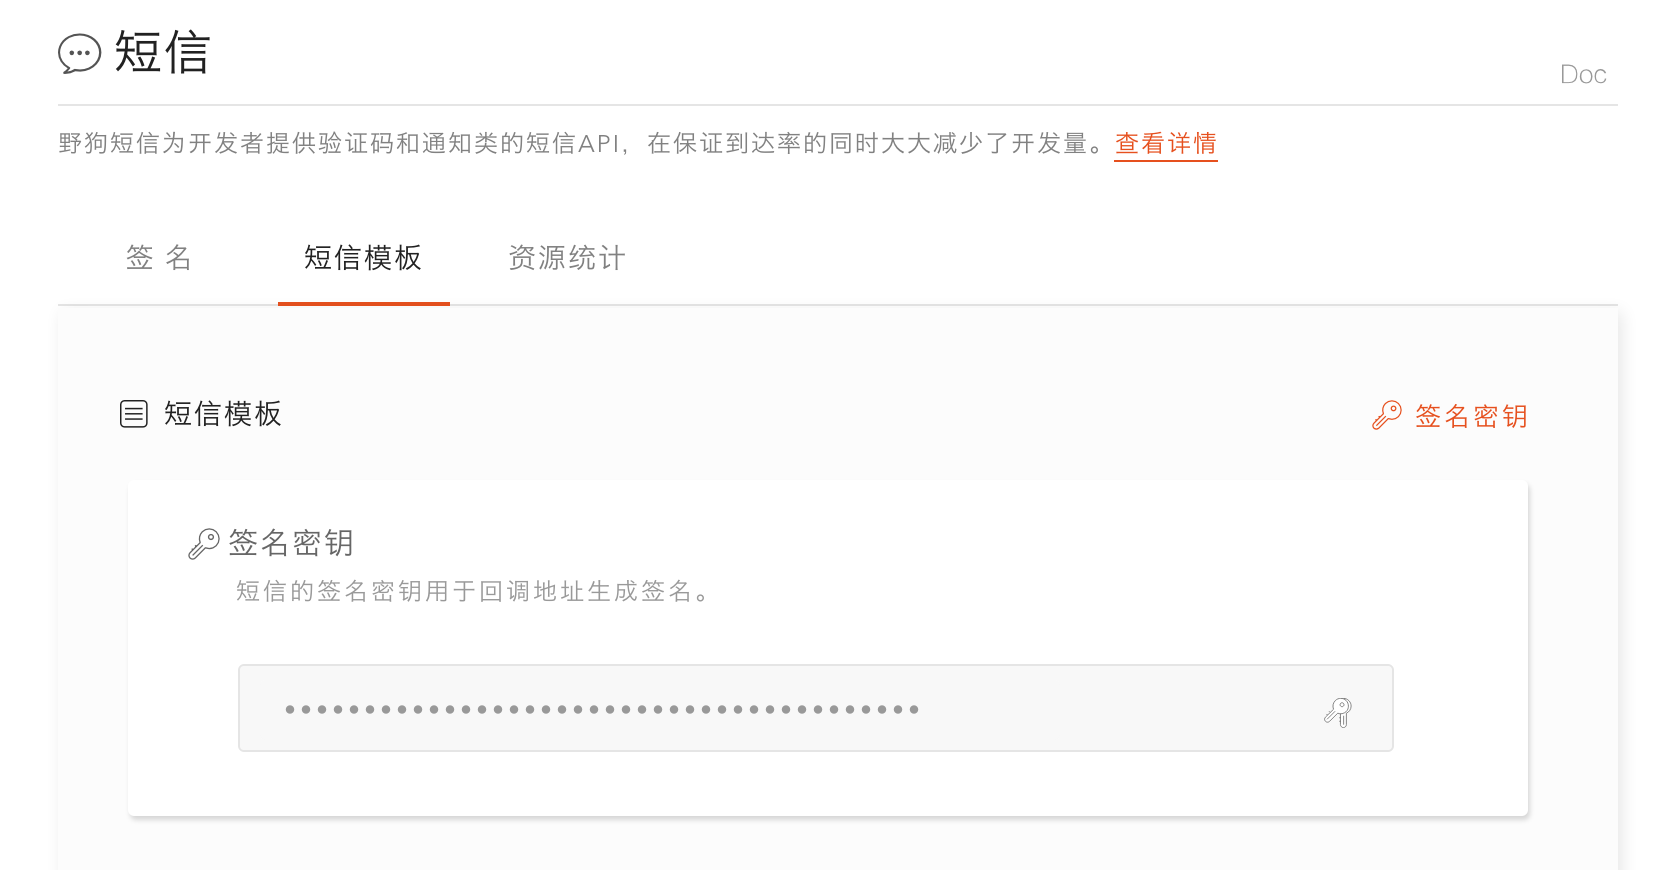
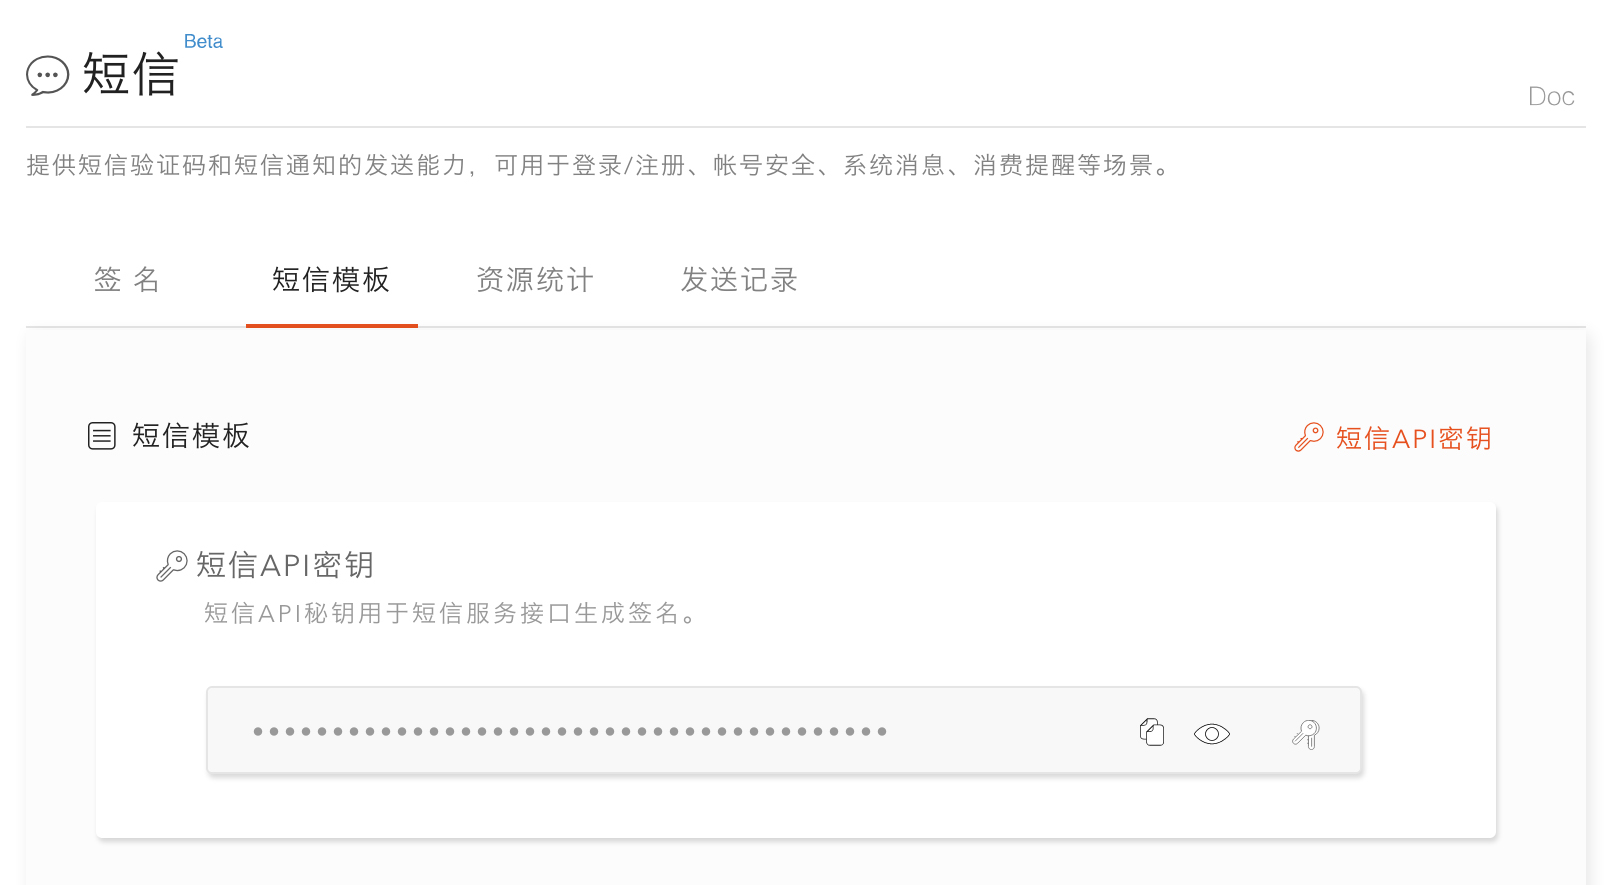
changesmspics

diff --git a/source/api/sms/changelog.md b/source/api/sms/changelog.md
@@ -2,7 +2,14 @@
 title: 更新日志
 ---
 
-## SMS API Preview 
+## SMS API Beta
+
+### v0.1.1 - 2016.12.22
+
+<span class="changelog deprecated">废弃</span>
+
+- 废弃试用码申请
+
 
 ### v0.1.1 - 2016.12.10
 

diff --git a/source/guide/sms/signature.md b/source/guide/sms/signature.md
@@ -22,8 +22,8 @@ title: 接口验证机制
 
 ```   
 templateId: 100001
-mobile: 130xxxxxxxx
-timestamp: 1482301296
+mobile: "['13500000000']"
+timestamp:'1482301296'
 
 ```
 
